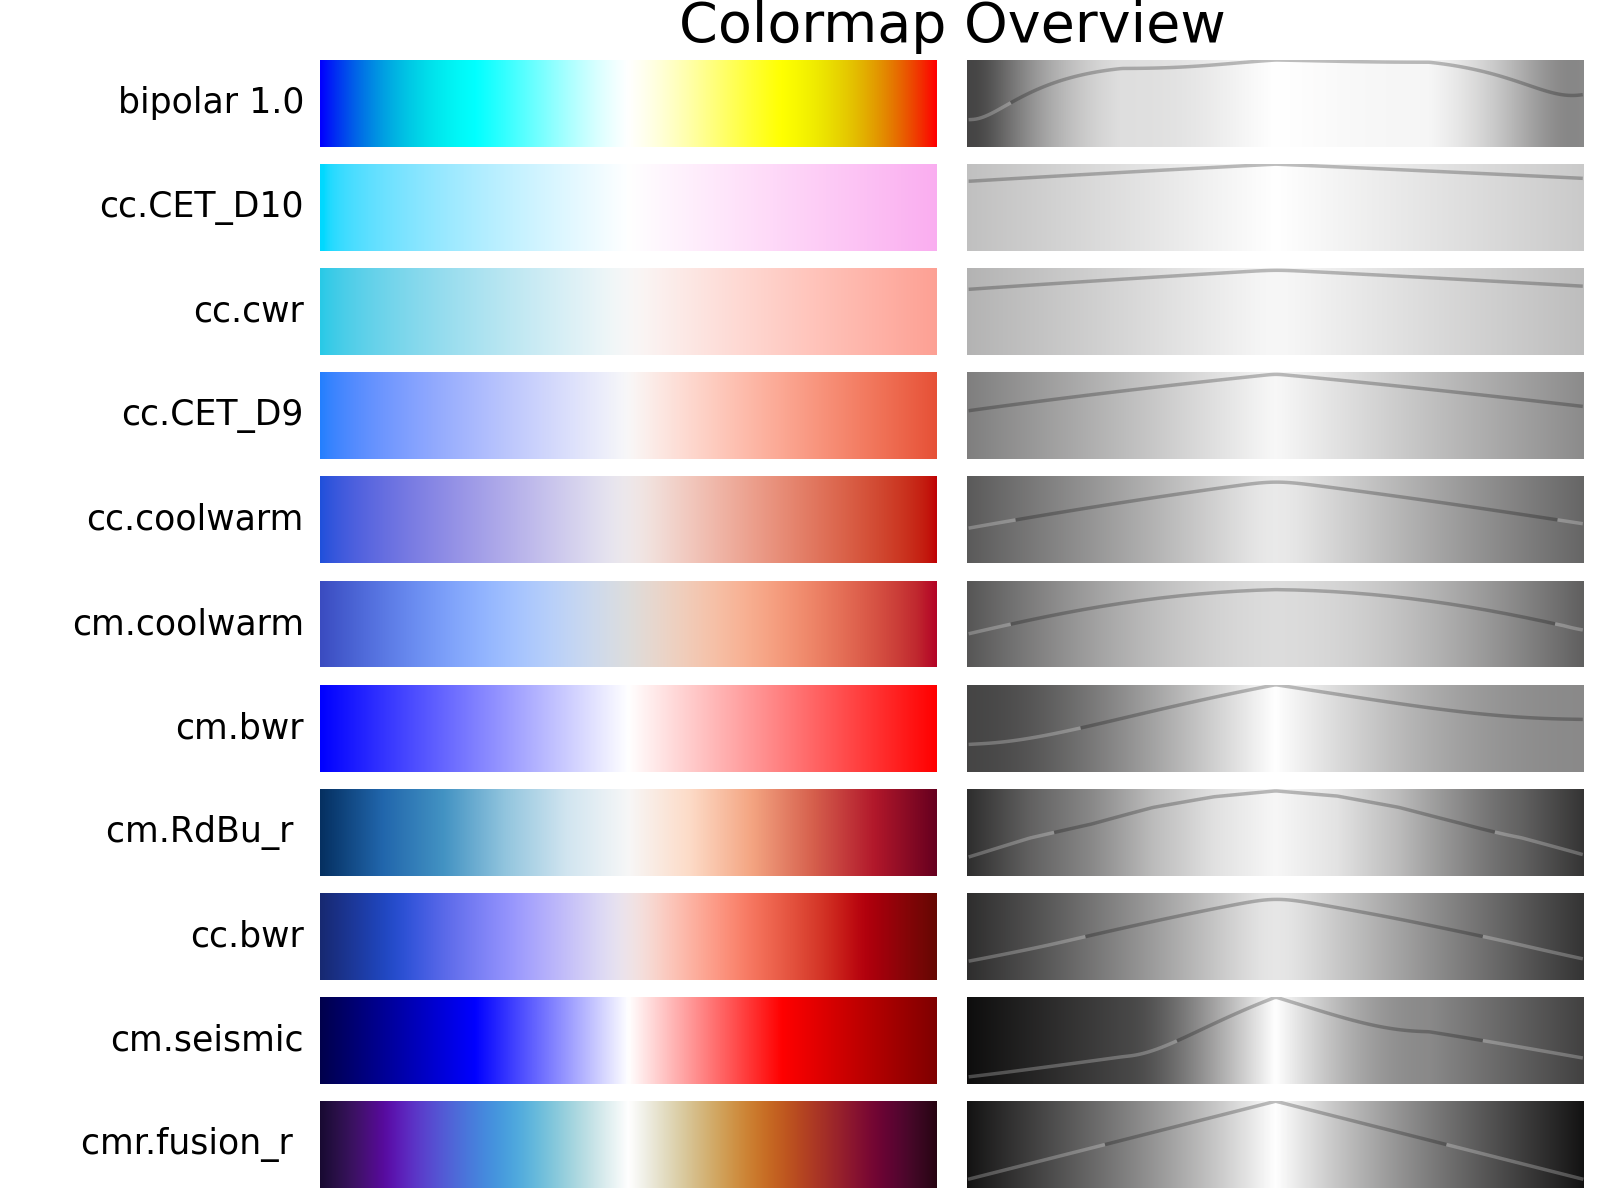
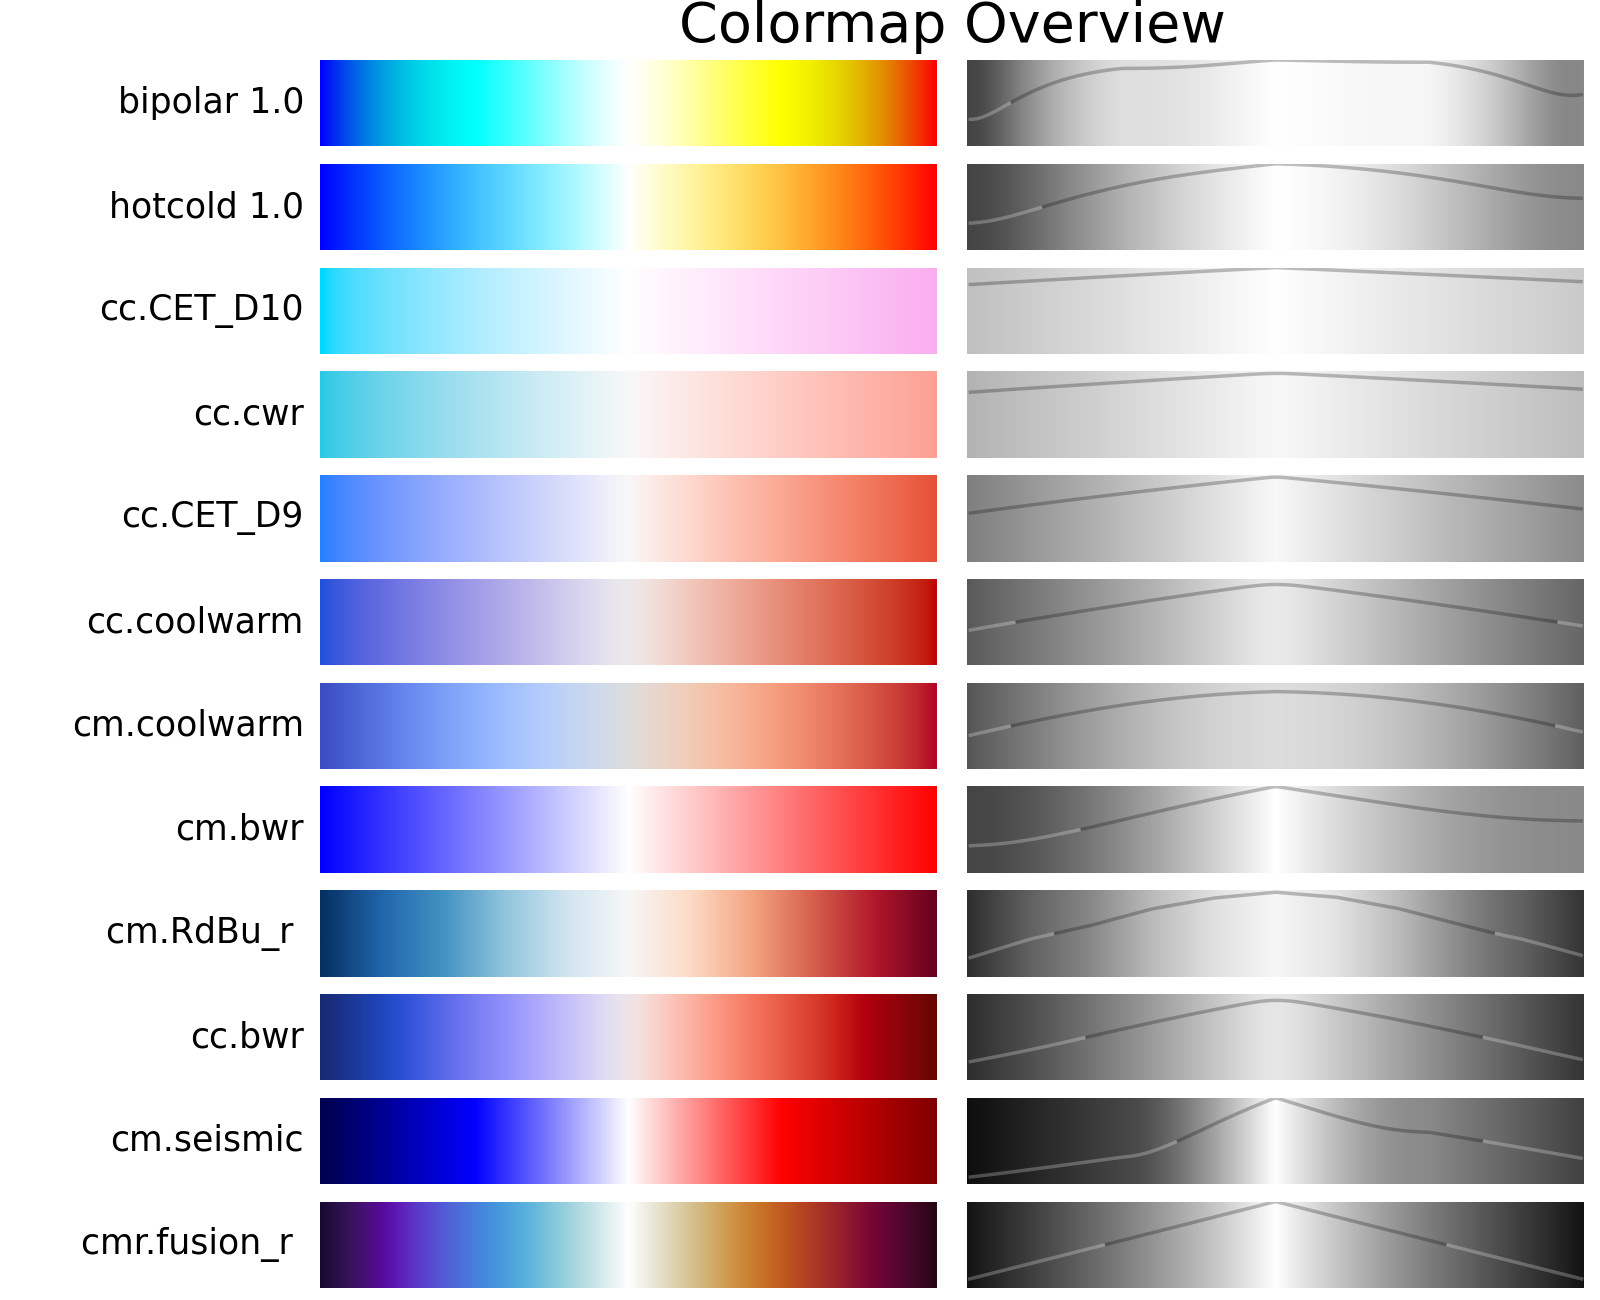
Include hotcold in comparisons

diff --git a/examples/comparison.py b/examples/comparison.py
@@ -2,7 +2,7 @@ import matplotlib.cm as cm
 import cmasher as cmr
 from cmasher.utils import create_cmap_overview
 import colorcet as cc
-from bipolar import bipolar
+from bipolar import bipolar, hotcold
 
 # Full range of bipolar plots
 cmaps = []
@@ -14,13 +14,25 @@ for n in (0.0, 0.2, 0.4, 0.6, 0.8, 1.0):
 create_cmap_overview(cmaps, use_types=False, savefig='bipolar range.png',
                      plot_profile=True, sort=None)
 
+# Full range of hotcold plots
+cmaps = []
+for n in (0.0, 0.2, 0.4, 0.6, 0.8, 1.0):
+    cmap = hotcold(neutral=n)
+    cmap.name = f'hotcold {n}'
+    cmaps.append(cmap)
+
+create_cmap_overview(cmaps, use_types=False, savefig='hotcold range.png',
+                     plot_profile=True, sort=None)
+
 # Bipolar vs other dark-centered hot-cold maps
 cmaps = [('bipolar 0.0', bipolar(neutral=0)),
+         ('hotcold 0.0', hotcold(neutral=0)),
          ('cmr.iceburn', cmr.iceburn),
          ('cmr.redshift', cmr.redshift),
          ('cc.bkr', cc.m_bkr),
          ('cc.bjr', cc.m_CET_D8),
          ('bipolar 0.4', bipolar(neutral=0.4)),
+         ('hotcold 0.4', hotcold(neutral=0.4)),
          ]
 
 for n, (name, cmap) in enumerate(cmaps):
@@ -32,6 +44,7 @@ create_cmap_overview(cmaps, use_types=False, savefig='dark comparison.png',
 
 # Bipolar vs other light-centered hot-cold maps
 cmaps = [('bipolar 1.0', bipolar(neutral=1.0)),
+         ('hotcold 1.0', hotcold(neutral=1.0)),
          ('cc.CET_D10', cc.m_CET_D10),
          ('cc.cwr', cc.m_cwr),
          ('cc.CET_D9', cc.m_CET_D9),
